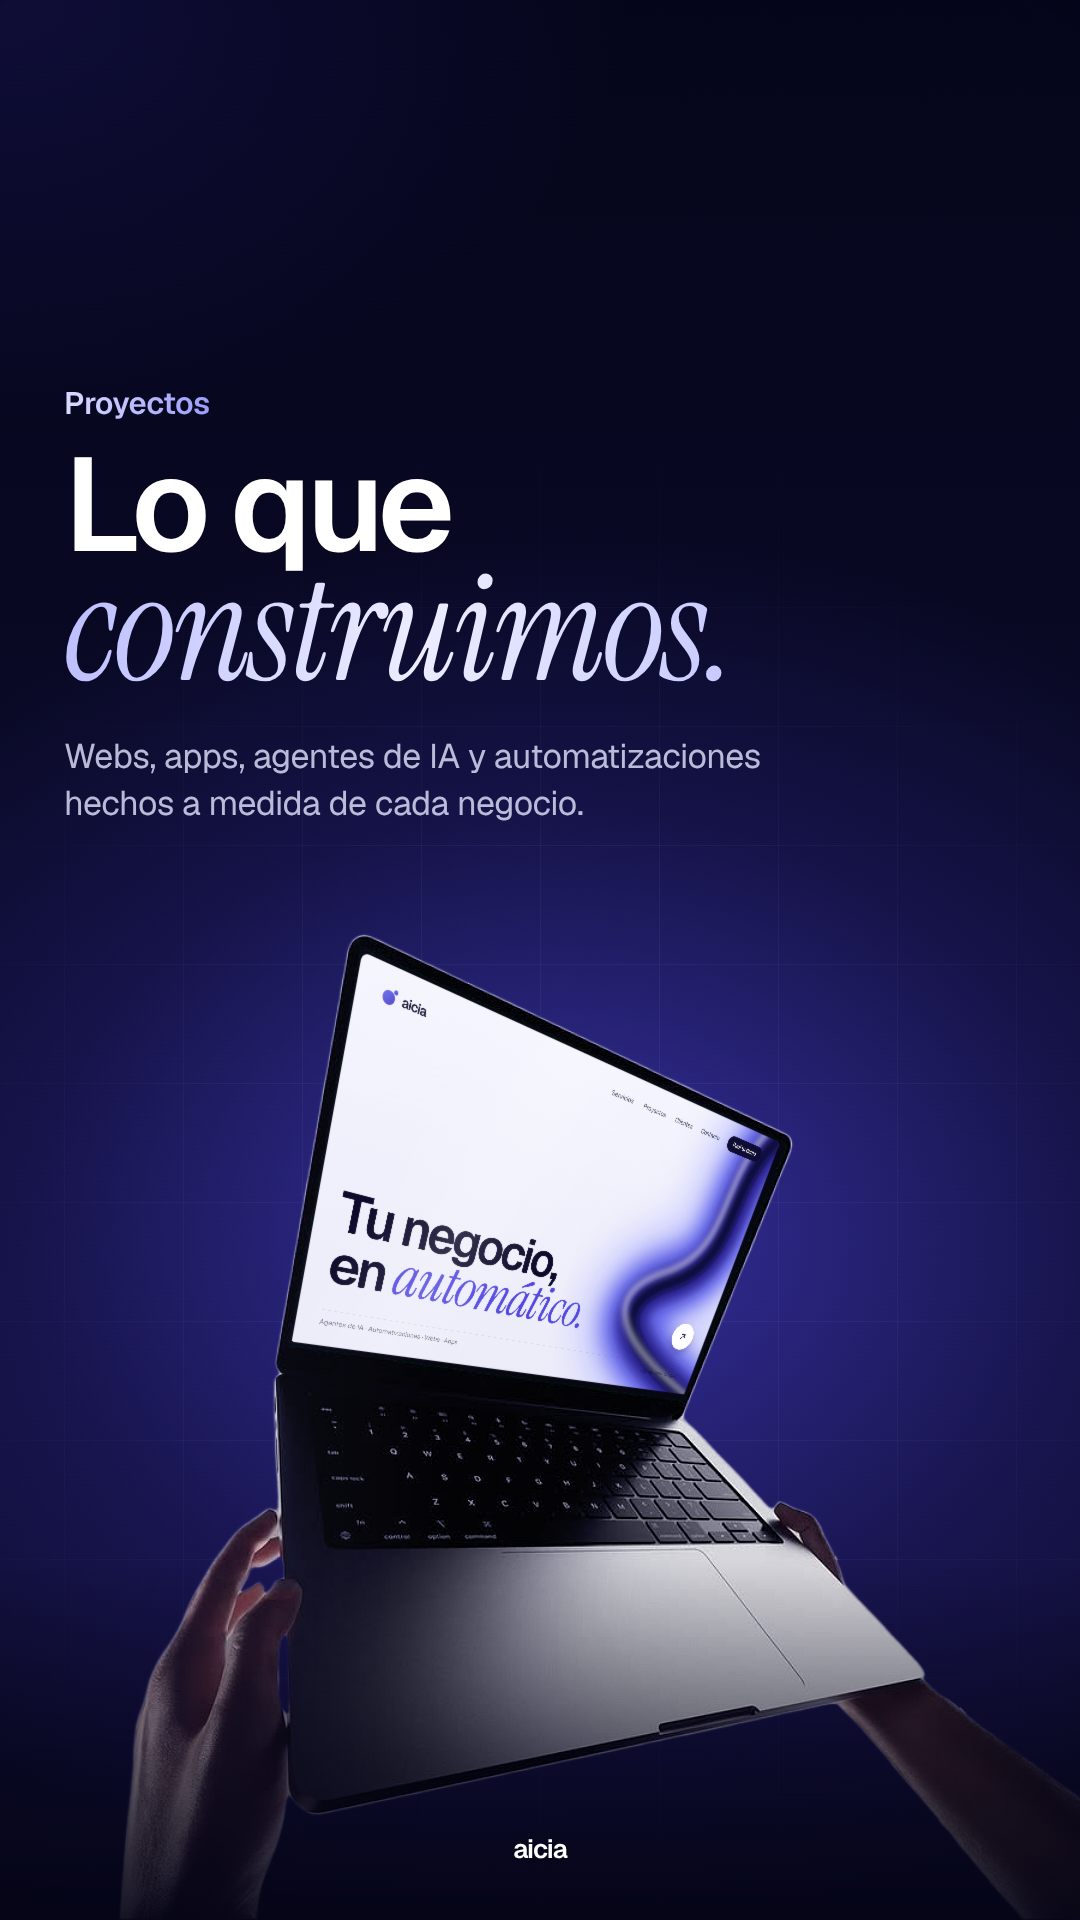
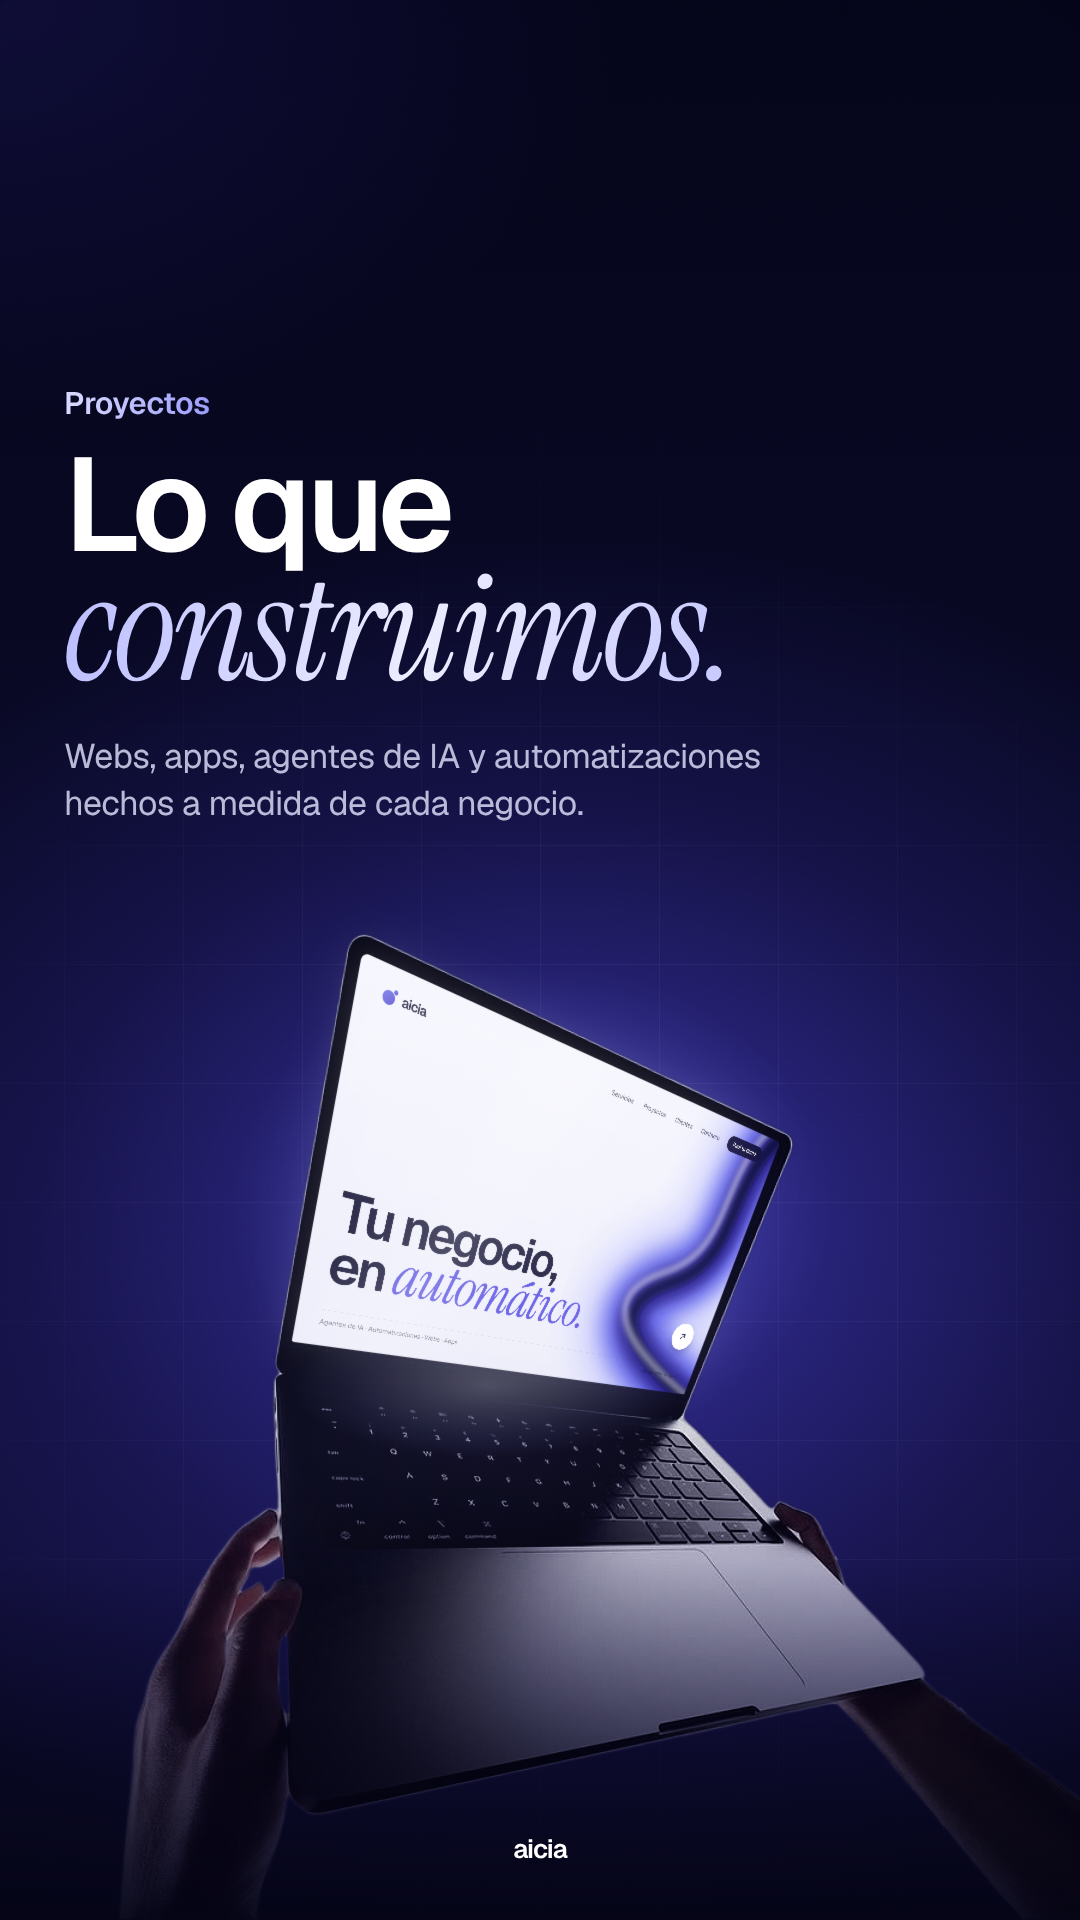
Proyectos: integración de la foto (negros, caída de luz, luz de pantalla y resplandor)
Claude-Session: https://claude.ai/code/session_01SBSshHAET78NiDLxszLW9R

diff --git a/historias/clientes-proyectos/historias.html b/historias/clientes-proyectos/historias.html
@@ -244,6 +244,18 @@ svg.app .gl .f{fill:#fff;stroke:none}
 .lap{z-index:2;isolation:isolate}
 .lap > *{position:absolute}
 .lap-scr{left:0;top:0;width:100%;height:100%;z-index:3;filter:blur(.45px) saturate(.96)}
+.lap .subj img{filter:url(#cut) contrast(1.08) brightness(.94) saturate(.9)}
+.lap .fx{left:0;top:0;width:100%;height:100%;pointer-events:none}
+.lap .fx.m{z-index:2;-webkit-mask:url(assets/macbook-manos.png) 0 0/100% 100% no-repeat;mask:url(assets/macbook-manos.png) 0 0/100% 100% no-repeat}
+.lap .blacks{background:#0B0A24;mix-blend-mode:lighten;opacity:.5}
+.lap .falloff{mix-blend-mode:multiply;background:
+  radial-gradient(64% 54% at 51% 30%,rgba(255,255,255,0) 45%,rgba(60,52,150,.32) 100%),
+  linear-gradient(180deg,rgba(255,255,255,0) 55%,rgba(40,34,120,.34) 100%)}
+.lap .spill{mix-blend-mode:screen;background:
+  radial-gradient(260px 96px at 690px 546px,rgba(226,228,255,.26),rgba(160,163,255,.08) 55%,transparent 75%),
+  radial-gradient(520px 240px at 680px 600px,rgba(129,132,255,.09),transparent 70%)}
+.lap .bloom-out{z-index:1;background:radial-gradient(400px 330px at 735px 370px,rgba(199,201,255,.30),rgba(129,132,255,.12) 50%,transparent 75%)}
+.lap-scr.bloom{z-index:4;filter:blur(22px);opacity:.2;mix-blend-mode:screen}
 .lap-scr > *{position:absolute;left:0;top:0;transform-origin:0 0}
 .site{width:1512px;height:982px;overflow:hidden;border-radius:18px 18px 6px 6px;font-family:"Geist",system-ui,sans-serif;color:#0B0A2A;background:linear-gradient(180deg,#F4F4FE 0%,#ECECFA 100%)}
 .site > *{position:absolute}
@@ -407,7 +419,10 @@ svg.app .gl .f{fill:#fff;stroke:none}
   <!-- Foto real (manos + MacBook). La pantalla original se pintó de negro (preparar-macbook.mjs)
        y el sitio de Aicia se calza encima en perspectiva con las 4 esquinas medidas. -->
   <div class="lap" style="left:-204px;top:840px;width:1440px;height:1080px" data-w="1200" data-quad="472,93 820,252 740,462 413,418">
+    <div class="fx bloom-out"></div>
     <div class="subj" data-src="assets/macbook-manos.png" data-rim="left" style="left:0;top:0;width:1440px;--tint:.12;--rim:.38"></div>
+    <!-- Integración: negros al índigo de la escena, caída de luz, luz de la pantalla sobre el teclado -->
+    <div class="fx m blacks"></div><div class="fx m falloff"></div><div class="fx m spill"></div>
     <div class="lap-scr" aria-hidden="true">
       <div class="site">
         <svg class="wave" viewBox="0 0 1512 982" width="1512" height="982">
@@ -433,6 +448,7 @@ svg.app .gl .f{fill:#fff;stroke:none}
       </div>
       <div class="glare"></div>
     </div>
+    <div class="lap-scr bloom" aria-hidden="true"></div>
   </div>
   <div class="eyebrow tx">Proyectos</div>
   <h1 class="title tx">Lo que<br><span class="serif">construimos.</span></h1>
@@ -618,6 +634,8 @@ function renderSpheres(theme, size, vb, show) {
 /* ---------- Pantalla en perspectiva: rectángulo → las 4 esquinas medidas en la foto ---------- */
 function fitScreens() {
   document.querySelectorAll('.lap').forEach(lap => {
+    const bloom = lap.querySelector('.lap-scr.bloom'), site = lap.querySelector('.lap-scr .site');
+    if (bloom && site && !bloom.children.length) bloom.append(site.cloneNode(true));
     const k = lap.clientWidth / +lap.dataset.w;
     const q = lap.dataset.quad.split(' ').map(p => p.split(',').map(n => +n * k));
     lap.querySelectorAll('.lap-scr > *').forEach(el => {

diff --git a/CLAUDE.md b/CLAUDE.md
@@ -82,5 +82,5 @@ node portadas-destacadas/render.mjs    # portadas 2160×2160
 - El logo de AeroSport es de baja resolución. Si Guille consigue uno más grande, reemplazarlo.
 
 ### Pendiente
-- **Proyectos**: portada "Lo que *construimos.*" con una **foto real** de dos manos levantando una MacBook (`assets/macbook-manos.png`, que sale de `macbook-manos-original.png` con `preparar-macbook.mjs`; ese script borra la pantalla verde y mide sus 4 esquinas). Encima de la pantalla va un sitio de Aicia premium y claro, calzado en perspectiva con `fitScreens()` (homografía → `matrix3d`): nav, "Tu negocio, en *automático.*" y una onda índigo difuminada. La bajada es "Webs, apps, agentes de IA y automatizaciones hechos a medida de cada negocio." Se descartaron el logo grande, la vista explotada, el flujo n8n y el mosaico de ventanas. Próximo: historias de cada proyecto con el logo del cliente chico arriba y la página/app mostrada. La tarjeta Bs.As. Top (web) sigue como placeholder.
+- **Proyectos**: portada "Lo que *construimos.*" con una **foto real** de dos manos levantando una MacBook (`assets/macbook-manos.png`, que sale de `macbook-manos-original.png` con `preparar-macbook.mjs`; ese script borra la pantalla verde y mide sus 4 esquinas). Encima de la pantalla va un sitio de Aicia premium y claro, calzado en perspectiva con `fitScreens()` (homografía → `matrix3d`): nav, "Tu negocio, en *automático.*" y una onda índigo difuminada. La foto lleva capas de integración en `.lap`: los negros levantados al índigo (`.blacks`, lighten), la caída de luz (`.falloff`, multiply), la luz de la pantalla sobre el teclado (`.spill`, screen), un resplandor detrás de la tapa (`.bloom-out`) y el brillo de la pantalla (`.lap-scr.bloom`). Están en intensidades bajas, porque más fuerte se ve lavado. La bajada es "Webs, apps, agentes de IA y automatizaciones hechos a medida de cada negocio." Se descartaron el logo grande, la vista explotada, el flujo n8n y el mosaico de ventanas. Próximo: historias de cada proyecto con el logo del cliente chico arriba y la página/app mostrada. La tarjeta Bs.As. Top (web) sigue como placeholder.
 - Opcional: video de demo de un proyecto si Guille pasa grabaciones de pantalla.
